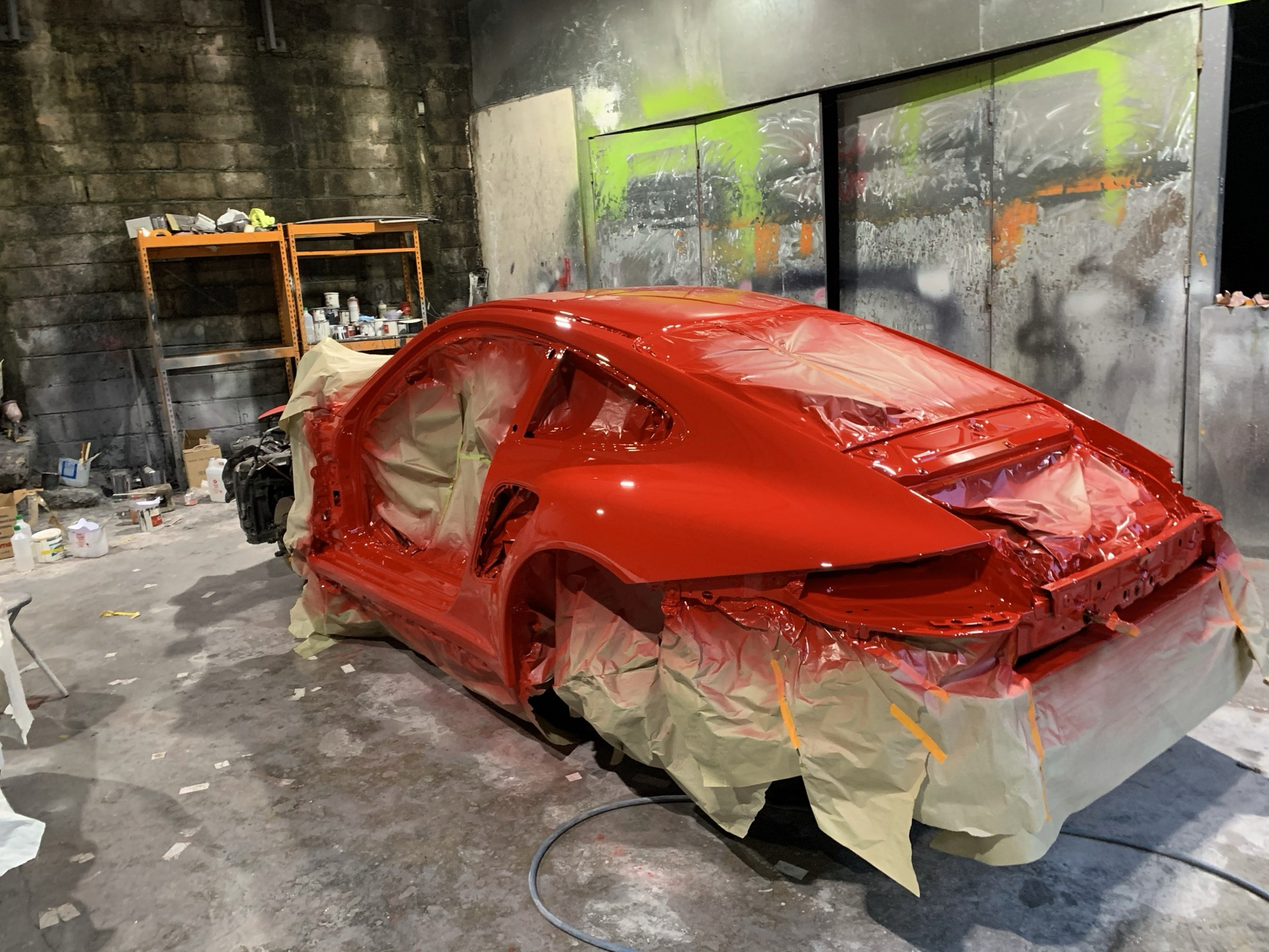
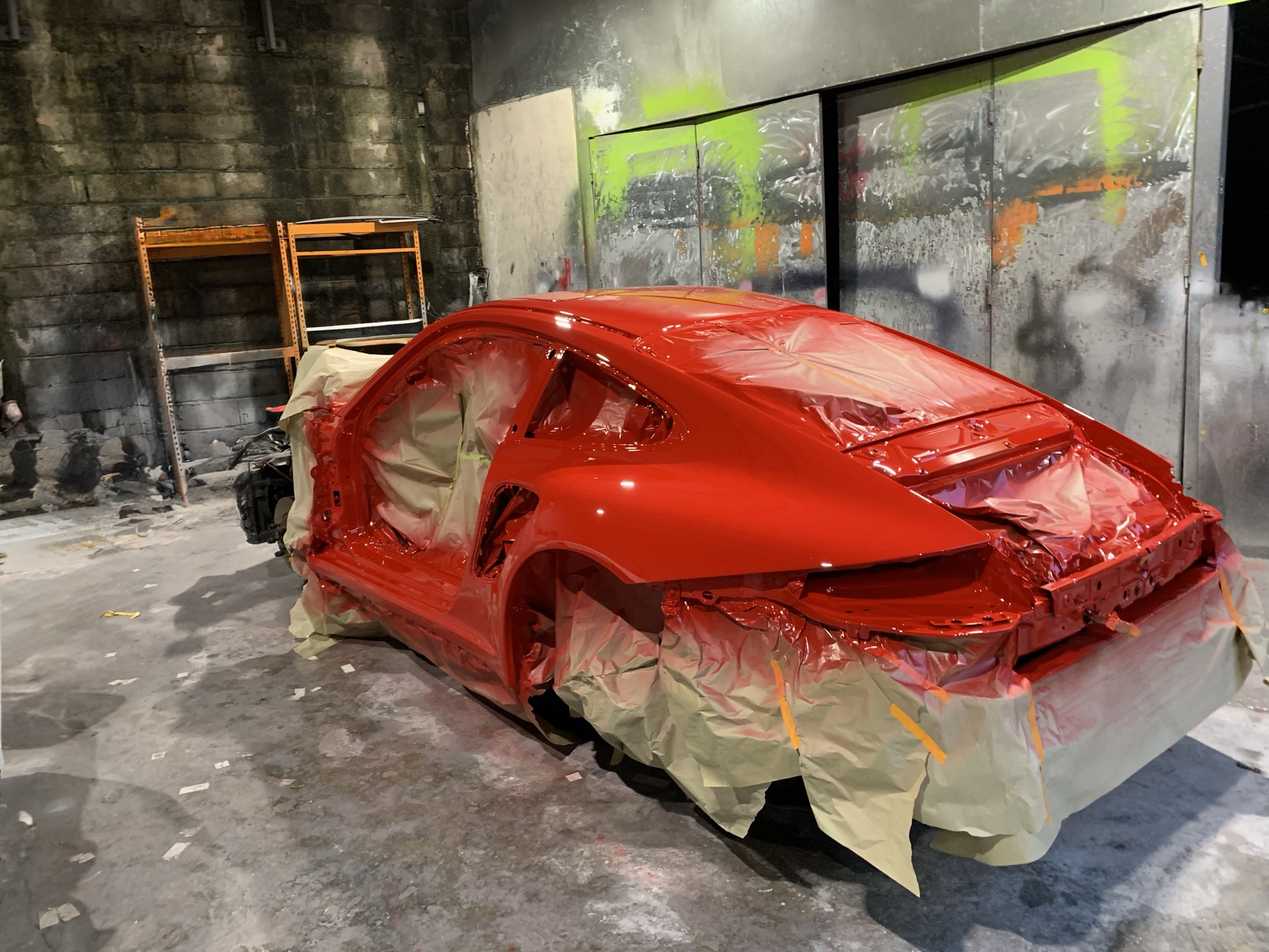
Paintshop gallery photos, clean hero, red redirect tile, main-site revert
- Paintshop 'Out of the shop' gallery: fill all 4 tiles (944 color-match,
  red before/after, carbon mural custom paint, white 911 feature)
- Paintshop hero swapped to the cleaner red 911 booth shot
- Main-site workshop 'Paint shop' tile restored to the red 944
- Main-site Paintshop redirect tile now uses the red 944 (on-brand red)
- Restore mosaic captions

diff --git a/script.js b/script.js
@@ -29,7 +29,7 @@
         { num: "W-01", label: "Service bay", ph: "Service bay — lift with 911", img: "assets/workshop-servicebay.jpg", alt: "Porsche on the jack in the service bay with control arms laid out at 9Eleven" },
         { num: "W-02", label: "Engine room", ph: "Engine build / assembly area", img: "assets/workshop-engine.jpg", alt: "Porsche engine out on the stand at 9Eleven" },
         { num: "W-03", label: "Parts storage", ph: "Parts storage — OEM inventory", img: "assets/workshop-parts.jpg", alt: "Porsche body panels and parts in storage at 9Eleven" },
-        { num: "W-04", label: "Paint shop", ph: "Paint shop — booth / refinishing", img: "assets/workshop-paint-mural.jpg", alt: "Hand-painted carbon-fibre Ferrari hood mural at the 9Eleven paint shop" }
+        { num: "W-04", label: "Paint shop", ph: "Paint shop — booth / refinishing", img: "assets/workshop-paint-944.jpg", alt: "Red Porsche 944 masked and freshly painted in the 9Eleven booth" }
       ],
       secGallery: "Gallery", galleryTitle: "The cars",
       galleryLead: "Recent work and cars through the shop. Drop your photos into the grid.",
@@ -88,7 +88,7 @@
         { num: "W-01", label: "Bahía de servicio", ph: "Bahía de servicio — 911 en el elevador", img: "assets/workshop-servicebay.jpg", alt: "Porsche en el gato en la bahía de servicio con brazos de control en el piso en 9Eleven" },
         { num: "W-02", label: "Sala de motores", ph: "Área de armado de motores", img: "assets/workshop-engine.jpg", alt: "Motor Porsche desmontado en el soporte en 9Eleven" },
         { num: "W-03", label: "Almacén de piezas", ph: "Almacén de piezas — inventario OEM", img: "assets/workshop-parts.jpg", alt: "Paneles y piezas Porsche en almacén en 9Eleven" },
-        { num: "W-04", label: "Taller de pintura", ph: "Taller de pintura — cabina / refinishing", img: "assets/workshop-paint-mural.jpg", alt: "Mural pintado a mano en capó de fibra de carbono Ferrari en el taller de pintura de 9Eleven" }
+        { num: "W-04", label: "Taller de pintura", ph: "Taller de pintura — cabina / refinishing", img: "assets/workshop-paint-944.jpg", alt: "Porsche 944 rojo enmascarado y recién pintado en la cabina de 9Eleven" }
       ],
       secGallery: "Galería", galleryTitle: "Los autos",
       galleryLead: "Trabajos recientes y autos que han pasado por el taller. Arrastra tus fotos a la cuadrícula.",
@@ -184,8 +184,7 @@
       <a class="workshop-item workshop-cta" href="paintshop.html" data-reveal="1" aria-label="${escapeHtml(t.workshopCtaTitle)}">
         <div class="slot">
           <div class="img-slot">
-            <svg viewBox="0 0 24 24" fill="none" stroke="currentColor" stroke-width="1.5"><rect x="3" y="5" width="18" height="14" rx="1"/><circle cx="8.5" cy="10" r="1.5"/><path d="M21 15l-5-5-8 8"/></svg>
-            <span class="cap">${escapeHtml(t.workshopCtaTitle)}</span>
+            <img src="assets/workshop-paint-944.jpg" alt="${escapeHtml(t.workshopCtaTitle)}" loading="lazy">
             <div class="cta-overlay">
               <span class="cta-title">${escapeHtml(t.workshopCtaTitle)}<span class="arrow"> →</span></span>
             </div>

diff --git a/paintshop.js b/paintshop.js
@@ -24,9 +24,9 @@
       sec2Label: "Out of the shop", mosaicTitle: "Out of the shop",
       mosaic: [
         { cols: 2, rows: 2, num: "P-01", label: "Feature finish", ph: "Feature finish — full respray", img: "assets/paintshop-feature.jpg", alt: "Freshly painted white Porsche 911 rear quarter, masked in the 9Eleven booth" },
-        { cols: 2, rows: 1, num: "P-02", label: "Color match", ph: "Color match" },
-        { cols: 2, rows: 1, num: "P-03", label: "Before / after", ph: "Before / after" },
-        { cols: 2, rows: 1, num: "P-04", label: "Delivery", ph: "Delivery" }
+        { cols: 2, rows: 1, num: "P-02", label: "Color match", ph: "Color match", img: "assets/workshop-paint-944.jpg", alt: "Red Porsche 944 masked and freshly painted to a color-matched gloss in the 9Eleven booth" },
+        { cols: 2, rows: 1, num: "P-03", label: "Before / after", ph: "Before / after", img: "assets/paintshop-beforeafter.jpg", alt: "Deep red masked car freshly refinished in the 9Eleven paint booth" },
+        { cols: 2, rows: 1, num: "P-04", label: "Custom paint", ph: "Custom paint", img: "assets/workshop-paint-mural.jpg", alt: "Hand-painted carbon-fibre Ferrari hood mural at the 9Eleven paint shop" }
       ],
       ctaTitle: "Ready for paint?",
       ctaSub: "Send photos of your car on WhatsApp for a preliminary estimate.",
@@ -55,9 +55,9 @@
       sec2Label: "Saliendo del taller", mosaicTitle: "Saliendo del taller",
       mosaic: [
         { cols: 2, rows: 2, num: "P-01", label: "Acabado destacado", ph: "Acabado destacado — repintado completo", img: "assets/paintshop-feature.jpg", alt: "Cuarto trasero de Porsche 911 blanco recién pintado, enmascarado en la cabina de 9Eleven" },
-        { cols: 2, rows: 1, num: "P-02", label: "Igualación de color", ph: "Igualación de color" },
-        { cols: 2, rows: 1, num: "P-03", label: "Antes / después", ph: "Antes / después" },
-        { cols: 2, rows: 1, num: "P-04", label: "Entrega", ph: "Entrega" }
+        { cols: 2, rows: 1, num: "P-02", label: "Igualación de color", ph: "Igualación de color", img: "assets/workshop-paint-944.jpg", alt: "Porsche 944 rojo enmascarado y recién pintado con acabado brillante igualado en la cabina de 9Eleven" },
+        { cols: 2, rows: 1, num: "P-03", label: "Antes / después", ph: "Antes / después", img: "assets/paintshop-beforeafter.jpg", alt: "Auto rojo profundo enmascarado recién repintado en la cabina de pintura de 9Eleven" },
+        { cols: 2, rows: 1, num: "P-04", label: "Pintura personalizada", ph: "Pintura personalizada", img: "assets/workshop-paint-mural.jpg", alt: "Mural pintado a mano en capó de fibra de carbono Ferrari en el taller de pintura de 9Eleven" }
       ],
       ctaTitle: "¿Listo para pintar?",
       ctaSub: "Envía fotos de tu auto por WhatsApp para un estimado preliminar.",

diff --git a/paintshop.html b/paintshop.html
@@ -47,7 +47,7 @@
 
 <div class="hero-image" data-reveal="1">
   <div class="img-slot">
-    <img src="assets/paintshop-hero.jpg" alt="Freshly painted red Porsche 911 shell masked in the 9Eleven paint booth">
+    <img src="assets/paintshop-hero.jpg?v=2" alt="Freshly painted red Porsche 911 shell masked in the 9Eleven paint booth">
   </div>
   <div class="fade"></div>
 </div>
@@ -93,6 +93,6 @@
   <span class="footer-copy">© 2026 9ELEVEN · SANTO DOMINGO, DO</span>
 </footer>
 
-<script src="paintshop.js?v=2"></script>
+<script src="paintshop.js?v=6"></script>
 </body>
 </html>

diff --git a/index.html b/index.html
@@ -211,6 +211,6 @@
 
 <div class="wa-toast" id="waToast"></div>
 
-<script src="script.js?v=9"></script>
+<script src="script.js?v=11"></script>
 </body>
 </html>
